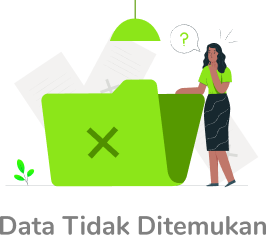
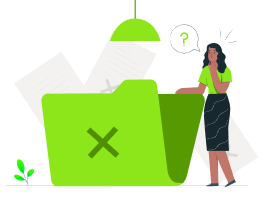
add Empty Data Alert Widget & Edit README

Changed region(s): [[0.0, 0.0896, 1.0, 1.0], [0.3925, 0.0, 0.6038, 0.209]]

diff --git a/lib/persentation/widgets/empty_data_alert.dart b/lib/persentation/widgets/empty_data_alert.dart
@@ -1,0 +1,18 @@
+import 'package:capstone_apps/common/constants.dart';
+import 'package:flutter/material.dart';
+
+Widget emptyDataAlert(String alertText) {
+  return Container(
+    margin: EdgeInsets.only(top: 90),
+      child: Center(
+          child: Column(children: [
+    Image.asset(
+      "assets/images/data_not_found_illustration.png",
+      width: 290,
+    ),
+    SizedBox(
+      height: 5,
+    ),
+    Text(alertText, textAlign: TextAlign.center, style: kHeading4)
+  ])));
+}

diff --git a/README.md b/README.md
@@ -35,24 +35,24 @@ Profile Page |
 - #### Dart & Flutter
 
 ## :books: LIBRARY
-- cached_network_image
-- cupertino_icons
-- dartz
-- equatable
-- get_it
-- google_fonts
-- http
-- intl
-- logger
-- provider
-- url_launcher
-- webview_flutter
-- sqflite
-- path_provider
-- firebase_core
-- firebase_auth
-- cloud_firestore
-- flutter_launcher_icons
+- [cached_network_image](https://pub.dev/packages/cached_network_image)
+- [cupertino_icons](https://pub.dev/packages/cupertino_icons)
+- [dartz](https://pub.dev/packages/dartz)
+- [equatable](https://pub.dev/packages/equatable)
+- [get_it](https://pub.dev/packages/get_it)
+- [google_fonts](https://pub.dev/packages/google_fonts)
+- [http](https://pub.dev/packages/http)
+- [intl](https://pub.dev/packages/intl)
+- [logger](https://pub.dev/packages/logger)
+- [provider](https://pub.dev/packages/provider)
+- [url_launcher](https://pub.dev/packages/url_launcher)
+- [webview_flutter](https://pub.dev/packages/webview_flutter)
+- [sqflite](https://pub.dev/packages/sqflite)
+- [path_provider](https://pub.dev/packages/path_provider)
+- [firebase_core](https://pub.dev/packages/firebase_core)
+- [firebase_auth](https://pub.dev/packages/firebase_auth)
+- [cloud_firestore](https://pub.dev/packages/cloud_firestore)
+- [flutter_launcher_icons](https://pub.dev/packages/flutter_launcher_icons)
 
 ## :scroll: API 
 - [Data Covid Indonesia](https://data.covid19.go.id/public/api/update.json)
